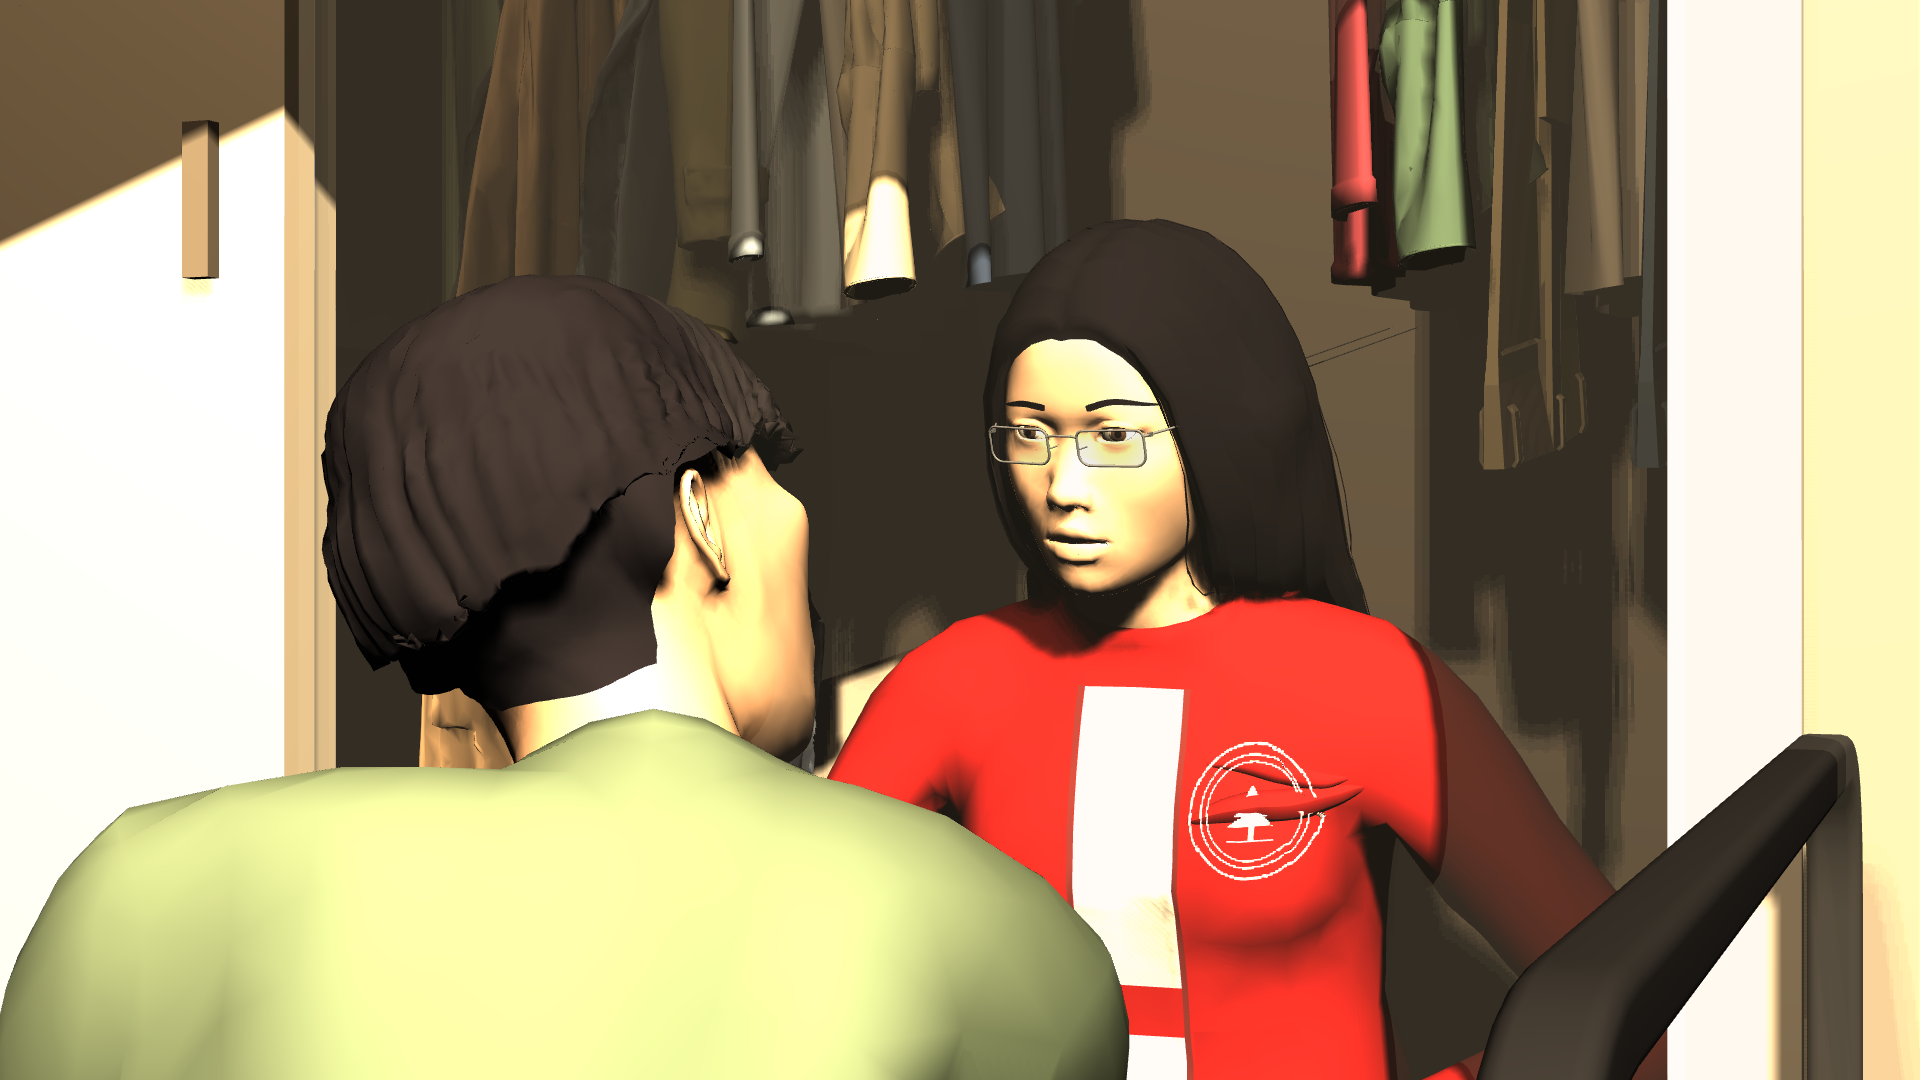
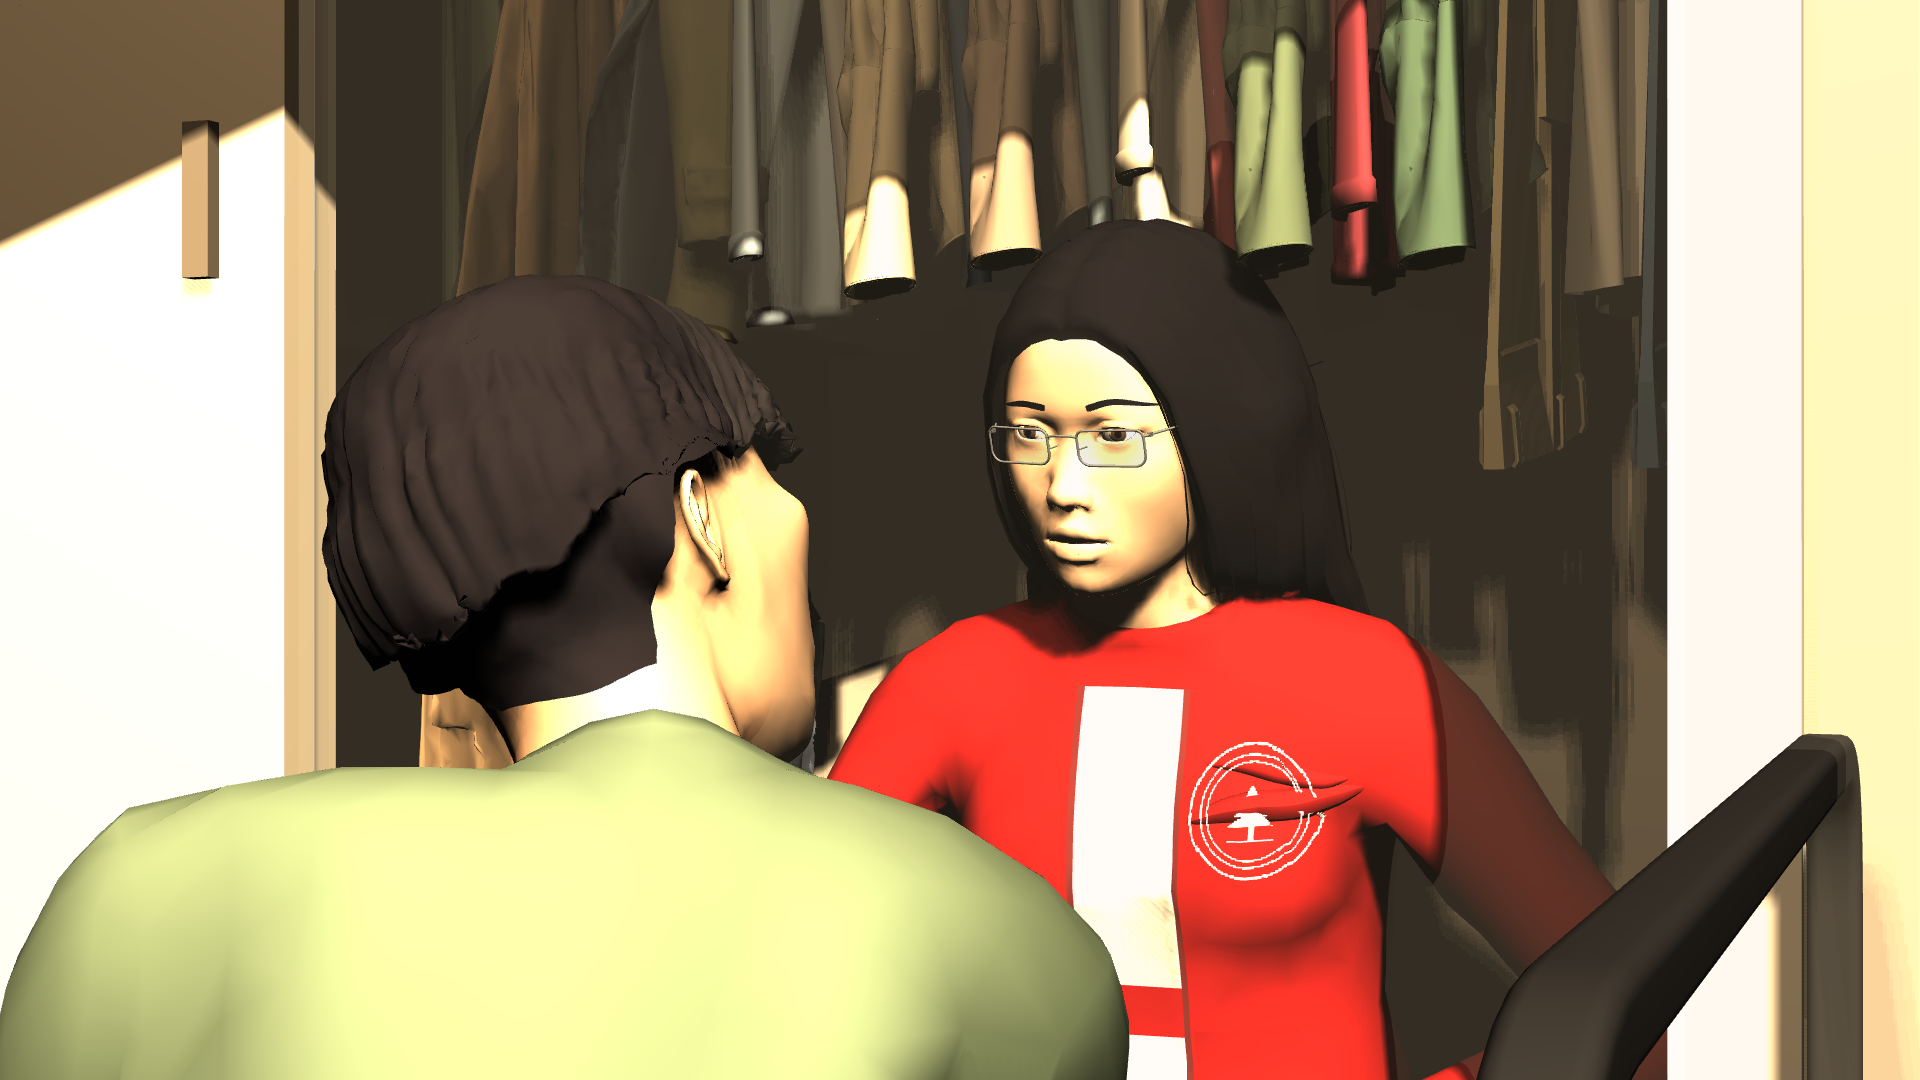
closet02: hanging clothes brush her hair (fitToHair per shot), prompts updated; CL_hands = approved demo + sleeve swap (stills set up)

Changed region(s): [[0.5, 0.0, 0.75, 0.5806], [0.4375, 0.6111, 0.4688, 0.6417]]

diff --git a/layout/sets/closet02/build.js b/layout/sets/closet02/build.js
@@ -7,7 +7,7 @@ import { box, cyl, tag, V, mk } from '../../engine/core.js';
 import { CAST } from '../_cast.js';   // registers the cast
 import { stage, solveCamera, hideParts } from '../../engine/stage.js';
 import { aim } from '../../engine/aim.js';
-import { WALL, OPEN, ROOM, DOORS, BEDROOM, SHELF, RAIL, CLOTHES, COATS, DUVET, FUTON, CEIL_LIGHT, HANDS, FACE, SUN, SUN_DIR, BEAM, beamAt, WINDOW, SUN_H, MOTE, LIGHTS, TOP_Y } from './layout.js';
+import { WALL, OPEN, ROOM, DOORS, BEDROOM, SHELF, RAIL, CLOTHES, COATS, HAIR, DUVET, FUTON, CEIL_LIGHT, HANDS, FACE, SUN, SUN_DIR, BEAM, beamAt, WINDOW, SUN_H, MOTE, LIGHTS, TOP_Y } from './layout.js';
 import { beamSolid, beamMesh, beamWire, beamSidecar, applyBeamMask } from './beam.js';
 import { plaidArt, SETT, SEAL, CARDINAL } from './art.js';
 import { worldUV, artLook } from '../_art.js';
@@ -148,7 +148,7 @@ function closet() {
     if (p) g.add(p); else console.warn('closet02: prop ' + name + ' missing');
     return p;
   };
-  for (const [x, name, col, s] of CLOTHES.items) hang(name, x, col, s, 'hanging clothes');
+  for (const [x, name, col, s, fit] of CLOTHES.items) { const p = hang(name, x, col, s, 'hanging clothes'); if (p && fit === 'hair') p.userData.fitHair = true; }
   for (const [x, name, col, s] of COATS.items) hang(name, x, col, s, 'long coats', COATS.thick);
   // shoes on the floor at the back (mostly behind the panels), the duvet she sits on
   for (const [x, z] of [[-0.62, -0.62], [-0.42, -0.60], [-0.15, -0.63], [0.86, -0.62]]) g.add(tag(box(0.10, 0.09, 0.22, { grey: 0.25, col: 0x2a2420 }, [x, 0.045, z], [0, 6, 0]), 'shoes'));
@@ -273,6 +273,46 @@ function futonClear(root, figs) {
 export const NAMED = { hands: HANDS, face: FACE, opening: [(DOORS.edge + OPEN.x1) / 2, 1.0, 0], beamMid: beamAt(HANDS, -0.35), floorIn: [0.5, 0, -0.4] };
 const fix = (p) => (typeof p === 'string' && NAMED[p] ? NAMED[p].slice() : p && p.mid ? { mid: p.mid.map(fix) } : p);
 
+// ---- round 8 (Jade: "clothes hang right down to, and brush, my hair"): fit each garment marked fitHair to her head in
+// THIS shot's pose. Her hair's top and her head skin's top on an 8 mm (x, z) grid; each garment as a solid slab (per 8 mm z-slice: its x extent and its hem's lowest y).
+// The garment's uniform scale about its hook (layout.js HAIR.sMin..sMax) is bisected so its hem goes HAIR.into into the
+// hair shell where it overlaps her head, then lowered further if the hem would come within HAIR.minScalp of the scalp.
+// A garment whose footprint misses her head keeps HAIR.sMax. Returns per garment { x, scale, into_hair_mm, above_scalp_mm }.
+function fitToHair(root, fig) {
+  const C = 0.008, key = (x, z) => (Math.round(x / C) + 5000) * 100000 + (Math.round(z / C) + 5000), cellXZ = (k) => [(Math.floor(k / 100000) - 5000) * C, ((k % 100000) - 5000) * C], v = new V3();
+  const hair = new Map(), scalp = new Map(), up = (m, k, y) => { const o = m.get(k); if (o === undefined || y > o) m.set(k, y); };
+  fig.updateMatrixWorld(true);
+  fig.traverse((o) => { if (!o.isMesh) return; const reg = o.userData.bodyRegion || (o.userData.idGroup || '').split(':').pop() || '';
+    const isHair = /hair/.test(reg), isScalp = /^skinHead/.test(reg); if (!isHair && !isScalp) return;
+    const P = o.geometry.attributes.position; for (let i = 0; i < P.count; i++) { v.fromBufferAttribute(P, i).applyMatrix4(o.matrixWorld); if (v.y > 0.75) up(isHair ? hair : scalp, key(v.x, v.z), v.y); } });
+  const out = [];
+  root.traverse((g) => { if (!g.userData.fitHair) return;
+    const meshes = []; g.traverse((o) => { if (o.isMesh && /garment/i.test(o.material?.name || o.name || '')) meshes.push(o); });
+    const all = meshes.length ? meshes : (() => { const a = []; g.traverse((o) => o.isMesh && a.push(o)); return a; })();
+    // the garment as a SOLID slab (the models are hollow tubes 7-10 cm thick: her crown must not go up between the front and
+    // back panels): per z-slice (8 mm, across the closet), its x extent and its lowest point (the hem) over that extent
+    const meas = (s) => { g.scale.setScalar(s); g.updateMatrixWorld(true); const sl = new Map();
+      const a = new V3(), b = new V3(), c = new V3(), q = new V3(), put = (p) => { const k = Math.round(p.z / C), o = sl.get(k);
+        if (!o) sl.set(k, { x0: p.x, x1: p.x, y: p.y }); else { o.x0 = Math.min(o.x0, p.x); o.x1 = Math.max(o.x1, p.x); o.y = Math.min(o.y, p.y); } };
+      // sample each triangle densely (low-poly hems: triangles up to ~3 cm)
+      for (const o of all) { const P = o.geometry.attributes.position, I = o.geometry.index, n = I ? I.count : P.count, at = (j) => (I ? I.getX(j) : j);
+        for (let t = 0; t + 2 < n; t += 3) { a.fromBufferAttribute(P, at(t)).applyMatrix4(o.matrixWorld); b.fromBufferAttribute(P, at(t + 1)).applyMatrix4(o.matrixWorld); c.fromBufferAttribute(P, at(t + 2)).applyMatrix4(o.matrixWorld);
+          const N = Math.min(8, Math.ceil(Math.max(a.distanceTo(b), b.distanceTo(c), c.distanceTo(a)) / (C / 2)));
+          for (let i = 0; i <= N; i++) for (let j = 0; i + j <= N; j++) { const u = i / N, w = j / N; q.copy(a).multiplyScalar(1 - u - w).addScaledVector(b, u).addScaledVector(c, w); put(q); } } }
+      // into: deepest hem point into the hair; gap: hem above the scalp under the hair; bare: hem above skin with no hair over it (face)
+      let into = -Infinity, gap = Infinity, bare = Infinity;
+      for (const [k, hy] of hair) { const [x, z] = cellXZ(k), o = sl.get(Math.round(z / C)); if (o && x >= o.x0 - C / 2 && x <= o.x1 + C / 2) into = Math.max(into, hy - o.y); }
+      for (const [k, sy] of scalp) { const [x, z] = cellXZ(k), o = sl.get(Math.round(z / C)); if (!o || x < o.x0 - C / 2 || x > o.x1 + C / 2) continue;
+        const h = hair.get(k); if (h !== undefined && h >= sy) gap = Math.min(gap, o.y - sy); else bare = Math.min(bare, o.y - sy); }
+      return { into, gap, bare }; };
+    const bad = (r) => r.into > HAIR.into || r.gap < HAIR.minScalp || r.bare < HAIR.minBare;
+    let lo = HAIR.sMin, hi = HAIR.sMax, m = meas(hi);
+    if (bad(m)) { for (let i = 0; i < 14; i++) { const mid = (lo + hi) / 2, r = meas(mid); if (bad(r)) hi = mid; else lo = mid; } m = meas(lo); }
+    const mm = (q) => (Number.isFinite(q) ? +(q * 1000).toFixed(1) : null);
+    out.push({ x: +g.position.x.toFixed(3), scale: +g.scale.x.toFixed(4), into_hair_mm: mm(m.into), above_scalp_mm: mm(m.gap), above_bare_skin_mm: mm(m.bare) }); });
+  return out;
+}
+
 export function build(shot, { makeCam }) {
   const scene = new THREE.Scene(); const root = new THREE.Group(); scene.add(root);
   root.add(closet());
@@ -291,6 +331,7 @@ export function build(shot, { makeCam }) {
     return P.head.clone().addScaledVector(w, 0.86).addScaledVector(up, 0.32 * R).addScaledVector(fwd, 0.5 * R).addScaledVector(w.normalize(), 0.01); };
   const { figs } = stage(shot.figs || {}, null, (t, figs) => (NAMED[t] ? V(NAMED[t]) : temple(t, figs)));
   for (const f of Object.values(figs)) { root.add(f); f.traverse((o) => { if (o.isMesh && o.userData.look) o.userData.look = { ...o.userData.look, recvShadowLine: true }; }); }
+  if (figs.jade19) shot.hairFit = fitToHair(root, figs.jade19);   // round 8: the clothes over her head brush her hair
   // 2026-11-26 post-sweep (closet-only): under the warm sun + ceiling light, FL_HAIR (v8 0x1f1915, r6 0x262019) rendered warm chestnut in
   // lit (#4a3422 on CL_ots). The v8 sheet (fl_B_backhead_neck_v8) reads dark cool brown (~#2e2420), so his hair's LIT
   // colour here is pre-compensated for the warm key (cooler, darker). Other passes and _cast.js FL_HAIR are untouched.
@@ -330,7 +371,7 @@ export function build(shot, { makeCam }) {
     beam: beamSidecar({ name: BEAM.name, kind: BEAM.kind, solid, anchor, P, cam: c, extra: { sun_altitude_deg: SUN.altitude, sun_azimuth_deg: SUN.azimuth, opening_m: +(OPEN.x1 - DOORS.edge).toFixed(3),
       band_top_at_face_m: TOP_Y, note: 'left edge: the slid-open panels; right edge: the jamb; top edge: the bedroom window head (stand-in slab); bottom: the floor' } }),
     hands: { meet_world: HANDS, meet_px: P(V(HANDS)), each_px: Object.fromEntries(Object.entries(figs).flatMap(([w, f]) => ['L', 'R'].map((n) => [`${w}.${n}`, P(f.userData.P['hand' + n])]))) },
-    motes: { seed: MOTE.seed, count: MOTE.count }, mask: maskInfo, futon_clearance: futonClear(root, figs),
+    motes: { seed: MOTE.seed, count: MOTE.count }, mask: maskInfo, futon_clearance: futonClear(root, figs), hair_fit: shot.hairFit || null,
     points_world: Object.fromEntries(Object.entries(figs).map(([w, f]) => [w, Object.fromEntries(['eyes', 'head', 'chin', 'handL', 'handR', 'hip', 'shoulderC'].map((k) => [k, r3(f.userData.P[k])]))])),
   });
   return { set: 'closet02', scene, root, cam, rig, near: shot.near ?? 0.05, far: shot.far ?? 6, figs, book: null, panes: {}, lights,

diff --git a/layout/sets/closet02/layout.js b/layout/sets/closet02/layout.js
@@ -58,8 +58,12 @@ export const RAIL = { y: 1.48, z: ROOM.z0 + 0.30, r: 0.014 };              // ro
 // The props' hook-to-hem drop is 0.603 m (tops) / 0.692 (folded trousers) at scale 1, so with the hook on the 1.48 rod the
 // tops' hems land at 0.90-0.94 (the drawing) and the trousers' at ~0.81. Garments are opaque solids pressed together
 // (centres 4.5-6 cm apart; real tops are 7-13 cm thick as modelled, a little overlap reads as compressed cloth).
-// GAP over her head (x 0.38-0.62): she sits under the rod with her crown at ~0.93-0.95, the hems' height, so the
-// hangers there are pushed aside to both sides (a placement choice, flagged for Jade; fixes "jade19 into hanging clothes").
+// OVER HER HEAD (Jade, round 8: "Fill it: clothes hang right down to, and brush, my hair"): the garments over her
+// (5th field 'hair') are fitted per shot in build.js (fitToHair): each one's hem comes down onto her hair, HAIR.into into
+// the hair shell (0-15 mm), never within 4 mm of the scalp, and never within 15 mm of bare skin (her forehead / face). She sits under the rod with her crown at the hems' height, so the
+// clothes rest on her hair: when she lifts her head (the hold shots) they ride up with it (~2.6 cm). (Round 7 had a
+// gap here, x 0.38-0.62.)
+export const HAIR = { into: 0.008, minScalp: 0.004, minBare: 0.015, sMin: 0.80, sMax: 1.06 };   // sMax 1.06: a top 0.55 m long
 const TOP = 'garment_tee', LS = 'garment_shirt', SW = 'garment_sweater', JK = 'garment_jacket', PT = 'garment_pants';
 export const CLOTHES = {
   hookLift: 0.004,            // the hook wire's thickness: the prop origin (top of the hook) sits this far above the rod top
@@ -74,8 +78,13 @@ export const CLOTHES = {
     [0.215, LS, 0x9fb3c8, 0.97],    // light-blue oxford shirt
     [0.265, TOP, 0x9a9a98, 0.95],   // heather-grey tee
     [0.315, SW, 0xc6b796, 0.98],    // oatmeal sweater
-    [0.36, TOP, 0x2e3a52, 0.93],    // navy tee (shortest, nearest her head)
-    // (gap over her head)
+    [0.36, TOP, 0x2e3a52, 0.93],    // navy tee
+    // over her head: hems brush her hair (fitted per shot; the scale here is the upper limit)
+    [0.405, SW, 0x8c7a6b, 1.0, 'hair'],   // taupe sweater
+    [0.45, TOP, 0x5f6f7a, 1.0, 'hair'],   // slate tee
+    [0.495, LS, 0xe0d8c4, 1.0, 'hair'],   // cream shirt
+    [0.54, TOP, 0x7a3b3b, 1.0, 'hair'],   // brick tee
+    [0.59, SW, 0x4f5d4a, 1.0, 'hair'],    // sage sweater
     [0.645, LS, 0x6e2a32, 0.94],    // burgundy shirt
     [0.695, SW, 0x3e5243, 0.97],    // forest-green sweater
     [0.745, PT, 0xb0a07a, 1.00],    // khaki trousers

diff --git a/layout/sets/closet02/NOTES.md b/layout/sets/closet02/NOTES.md
@@ -1,5 +1,20 @@
 # closet02: notes and assumptions
 
+## 2026-11-28: clothes brush her hair (round 8)
+
+Jade (work/decisions/JADE_R8_DECISIONS.md, closet: "Fill it: clothes hang right down to, and brush, my hair"): the gap over
+her head (x 0.38-0.62) is filled with five garments (layout.js CLOTHES items marked 'hair', x 0.405-0.59). build.js
+`fitToHair` fits each one to her head IN EACH SHOT'S POSE: its scale about the hook (0.80-1.06) is bisected so the hem goes
+at most 8 mm into her hair shell, stays 4 mm or more above the scalp and 15 mm or more above bare skin (forehead, face). Each
+garment counts as a SOLID slab (the models are hollow tubes 7-10 cm thick, so her crown must not slip up between their
+panels). She lifts her head in the hold shots (hair top 0.951 in CL_wide / CL_elev, 0.977 in CL_ots), so the hems ride
+up with it by about 2.6 cm. The sidecar's `hair_fit` holds the per-garment numbers. CL_wide: hems -1.5 to +8 mm into the hair
+(all five touching or within 1.5 mm), 20-129 mm above the scalp. CL_ots: three garments 6-8 mm into the hair; the two
+toward the camera side stop 15 mm above her forehead (no hair there). clipcheck still lists "jade19 into hanging clothes"
+(skin up to 36 mm): FALSE POSITIVES of the open-bottomed shells. The flagged vertices are 1.3-2.3 cm BELOW the hems, checked
+point by point. The INFRAME sentences for CL_wide and CL_ots in media/keyframes/r4/closet02/_prompts/_make.py now say the
+hems come down to and brush the top of her hair.
+
 ## 2026-11-27 (late): real hanging garments (supersedes anything below that contradicts it)
 
 Jade: the paintings make the shelving and hanging clothes look compressed and short. Correction from Jade mid-task: the
@@ -55,6 +70,24 @@ re-render of media/layout/closet02/ is the lead's.
 No camera changed. No shot's intent needs the shelf (CL_wide: "under the hanging clothes"; CL_ots: "the hems of the
 hanging clothes just above her head"), so no tilt is proposed. If Jade wants the hangers in CL_wide, tilting up ~6 degrees
 would bring the rod into the top edge but costs the caption room at the bottom.
+
+## 2026-11-28: Jade round 8, CL_hands = the approved demo with a clothing swap
+- Jade (work/decisions/JADE_R8_DECISIONS.md): at 3:30-3:31 ("I honestly don't know") the hold must CLOSELY MATCH the approved
+  hand-clasp demo (media/gen/hold_FINAL_AB1_MT3.mp4 and its layered keyframes), only with a clothing swap. The closet-camera
+  CL_hands guide and its paint-back stages (below) are now a FALLBACK only.
+- His closet top is the same faded forest-green hoodie as in the demo: left as it is (in the closet guides his sleeves are
+  long, in the demo pushed up; same garment and colour). Her sleeve: the demo's cream pushed-up sleeve becomes her closet
+  hoodie, cardinal red, LONG sleeve to the wrist (closet canon, as in CL_wide / CL_ots). Not swapped (flag for Jade): her
+  beige trousers and oatmeal sock in the demo (closet canon: mid-blue jeans, white socks); his charcoal sock.
+- Swap = a mask edit on the four stills of the approved chain (start_2048 = S3_H3b_1, mid_2048 = AB_1's end frame,
+  ab1_last = the clasp, the clip's last frame = the end): media/keyframes/r4/_hold/swap/ (gitignored). Masks cover her
+  forearm from the wrist to the frame edge only; composite.py takes only the masked region from the repaint and checks that
+  nothing outside it changed (hands pixel-identical). run_swap.sh runs it (free Codex). Status 00:45: Codex plan limit hit
+  (resets 02:01); the paid gpt-image-2 route was not run (blocked without an explicit OK).
+- Video PREPARED, not run: swap/run_video.sh (same Seedance 2.0 1080p chain, same prompts and seeds; only "cream sleeves"
+  -> "cardinal-red hoodie sleeves"). Est. $1.85 per take: 3 + 3 takes $11.10, minimum 1 + 1 $3.70.
+- Clothes over her head now brush her hair (garments section). clipcheck "jade19 into hanging clothes" 24-36 mm are false
+  readings (points under the open bottoms of the hollow garment models; checked one by one by the garments agent).
 
 ## 2026-11-27 (late): THE APPROVED HOLD in CL_hands / CL_ots (replaces the cradle)
 Jade picked the hold clip (media/gen/hold_FINAL_AB1_MT3.mp4): her right hand lies across his left, their fingers fold into a
